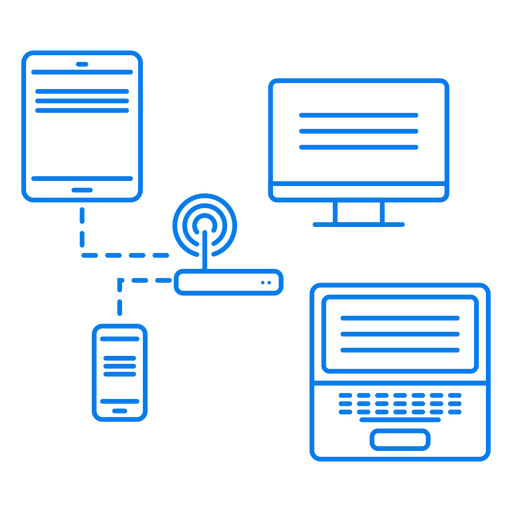
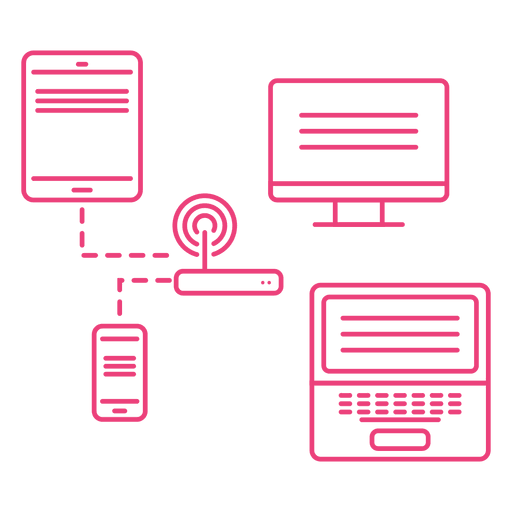
changes in css

diff --git a/features.html b/features.html
@@ -45,8 +45,13 @@
     <div class="container grid">
       <div>
         <h1 class="md">The Loruki Platform</h1>
-        <p>Lorem ipsum dolor sit amet consectetur adipisicing elit. Illo ea quos ad consequatur dolores, mollitia, harum
-          et voluptatem veniam, at earum asperiores non nulla voluptatum ratione dicta eum suscipit sapiente?
+        <p>Loruki is a powerful and versatile web deployment platform that caters to a wide range of web applications.
+          Whether
+          you're a large-scale enterprise looking to deploy APIs or an individual in need of hosting for your static
+          website,
+          Loruki has you covered. With its comprehensive suite of features and user-friendly interface, Loruki
+          simplifies the
+          process of deploying and managing web applications.
         </p>
       </div>
       <img src="images/server2.png" alt="">
@@ -58,38 +63,44 @@
   <section class="features-main my-2">
     <div class="container grid grid-3">
       <div class="card flex">
-        <i class="fas fa-server fa-3x"></i>
-        <p>Lorem ipsum dolor sit amet consectetur adipisicing elit. Voluptas nemo saepe corrupti et dolorem voluptate
-          at, nostrum rem voluptatem ab alias quia molestiae ea, libero nihil deserunt. Molestias, eum? Necessitatibus!
+        <i class=" icon-primary fas fa-server fa-3x"></i>
+        <p>Loruki offers a streamlined deployment process, allowing users to effortlessly deploy their web applications.
+          With just
+          a few clicks, you can deploy APIs or static websites, saving valuable time and effort.
         </p>
       </div>
       <div class="card flex">
-        <i class="fas fa-network-wired fa-3x"></i>
-        <p>Lorem, ipsum dolor sit amet consectetur adipisicing elit. Ducimus recusandae perferendis culpa, reiciendis a
-          itaque debitis qui vel
-          dignissimos ipsum!
+        <i class=" icon-secondary fas fa-network-wired fa-3x"></i>
+        <p>Loruki offers a developer-friendly environment with support for various programming languages and frameworks.
         </p>
       </div>
       <div class="card flex">
-        <i class="fas fa-laptop-code fa-3x"></i>
-        <p>Lorem ipsum dolor sit amet consectetur, adipisicing elit. Debitis,
-          magnam.
+        <i class="icon-primary fas fa-laptop-code fa-3x"></i>
+        <p> The platform utilizes
+          cutting-edge technologies and optimized server configurations to deliver fast and responsive experiences to
+          your users.
         </p>
       </div>
       <div class="card flex">
-        <i class="fas fa-database fa-3x"></i>
-        <p>Lorem ipsum dolor sit amet consectetur adipisicing elit. Vero, a!
+        <i class=" icon-secondary fas fa-database fa-3x"></i>
+        <p>Features such as SSL certificates, DDoS protection, and robust firewalls ensure a
+          secure environment for your applications.
         </p>
       </div>
       <div class="card flex">
-        <i class="fas fa-power-off fa-3x"></i>
-        <p>Lorem ipsum dolor sit amet consectetur, adipisicing elit. Debitis,
-          magnam.
+        <i class="icon-primary fas fa-power-off fa-3x"></i>
+        <p>The platform also provides comprehensive monitoring tools to keep track of your application's performance and
+          uptime.
         </p>
       </div>
       <div class="card flex">
-        <i class="fas fa-upload fa-3x"></i>
-        <p>Lorem ipsum dolor sit amet consectetur, adipisicing elit. Debitis, magnam.
+        <i class="icon-secondary fas fa-upload fa-3x"></i>
+        <p>Loruki provides a highly scalable infrastructure, enabling your applications to handle increased traffic and
+          user demand. You can easily scale your resources up or down as needed, ensuring optimal performance and user
+          experience.
+
+
+
         </p>
       </div>
     </div>

diff --git a/css/style.css b/css/style.css
@@ -1,10 +1,10 @@
 @import url('https://fonts.googleapis.com/css2?family=Lato:wght@300&family=Rubik:wght@300;400;600;700&display=swap');
 
 :root {
-  --primary-color: #047aed;
-  --secondary-color: #1c3fa8;
-  --dark-color: #002240;
-  --light-color: #f4f4f4;
+  --primary-color: #ec407a;
+  --secondary-color: #ab47bc;
+  --dark-color: #c2185b;
+  --light-color: #f3e5f5;
   --success-color: #5cb85c;
   --error-color: #d9534f;
 }
@@ -24,10 +24,21 @@
   color: #fff;
   padding: 10px;
   margin: 0 5px;
+  transition: color 0.3s ease;
 }
 
 .navbar a:hover {
-  border-bottom: 2px #fff solid;
+  border-bottom: 2px var(--secondary-color) solid;
+  color: var(--light-color);
+  transform: translateY(-15px);
+}
+
+.navbar li {
+  transition: transform 0.3s ease;
+}
+
+.navbar li:hover {
+  transform: translateY(-5px);
 }
 
 .navbar .flex {
@@ -119,6 +130,10 @@
   font-weight: bold;
 }
 
+.stats h3 {
+  animation: blink 2s linear infinite;
+}
+
 /* Cli */
 .cli .grid {
   grid-template-columns: repeat(3, 1fr);
@@ -181,7 +196,11 @@
 }
 
 .features-main .grid > *:nth-child(2) {
-  grid-column: 1 / span 2;
+  grid-column: 1 / span 1;
+}
+
+.features-main .grid > *:last-child {
+  grid-column: 2 / span 2;
 }
 
 /* Docs */
@@ -243,6 +262,12 @@
   }
 }
 
+@keyframes blink {
+  50% {
+    opacity: 0;
+  }
+}
+
 /* Media Queries */
 /* Tablets and under */
 @media (max-width: 768px) {
@@ -273,6 +298,10 @@
     animation: slideInFromDown 1s ease-in;
   }
 
+  .stats .grid {
+    grid-column: 1;
+  }
+
   .cli .grid > *:first-child {
     grid-column: 1;
     grid-row: 1;
@@ -297,7 +326,8 @@
   }
 
   .features-main .grid > *:first-child,
-  .features-main .grid > *:nth-child(2) {
+  .features-main .grid > *:nth-child(2),
+  .features-main .grid > *:last-child {
     grid-column: 1;
   }
 }

diff --git a/index.html b/index.html
@@ -65,20 +65,20 @@
       </div>
 
       <div class="grid grid-3 text-center my-4">
-        <div>
-          <i class="fas fa-server fa-3x"></i>
-          <h3>10,349,405</h3>
-          <p class="text-secondary">Deployments</p>
+        <div class="card">
+          <i class=" fas fa-server fa-3x"></i>
+          <h3 class="text-secondary">10,349,405</h3>
+          <p>Deployments</p>
         </div>
-        <div>
+        <div class="card">
           <i class="fas fa-upload fa-3x"></i>
-          <h3>987 TB</h3>
-          <p class="text-secondary">Published</p>
+          <h3 class="text-secondary">987 TB</h3>
+          <p>Published</p>
         </div>
-        <div>
+        <div class="card">
           <i class="fas fa-project-diagram fa-3x"></i>
-          <h3>2,343,265</h3>
-          <p class="text-secondary">Projects</p>
+          <h3 class="text-secondary">2,343,265</h3>
+          <p>Projects</p>
         </div>
       </div>
     </div>

diff --git a/css/utilities.css b/css/utilities.css
@@ -83,6 +83,11 @@ pre {
   color: #fff;
 }
 
+::selection {
+  background-color: #fff;
+  color: var(--primary-color);
+}
+
 .bg-secondary,
 .btn-secondary {
   background-color: var(--secondary-color);
@@ -124,6 +129,23 @@ pre {
 }
 
 .text-light {
+  color: var(--light-color);
+}
+
+/*  Icon color */
+.icon-primary {
+  color: var(--primary-color);
+}
+
+.icon-secondary {
+  color: var(--secondary-color);
+}
+
+.icon-dark {
+  color: var(--dark-color);
+}
+
+.icon-light {
   color: var(--light-color);
 }
 
